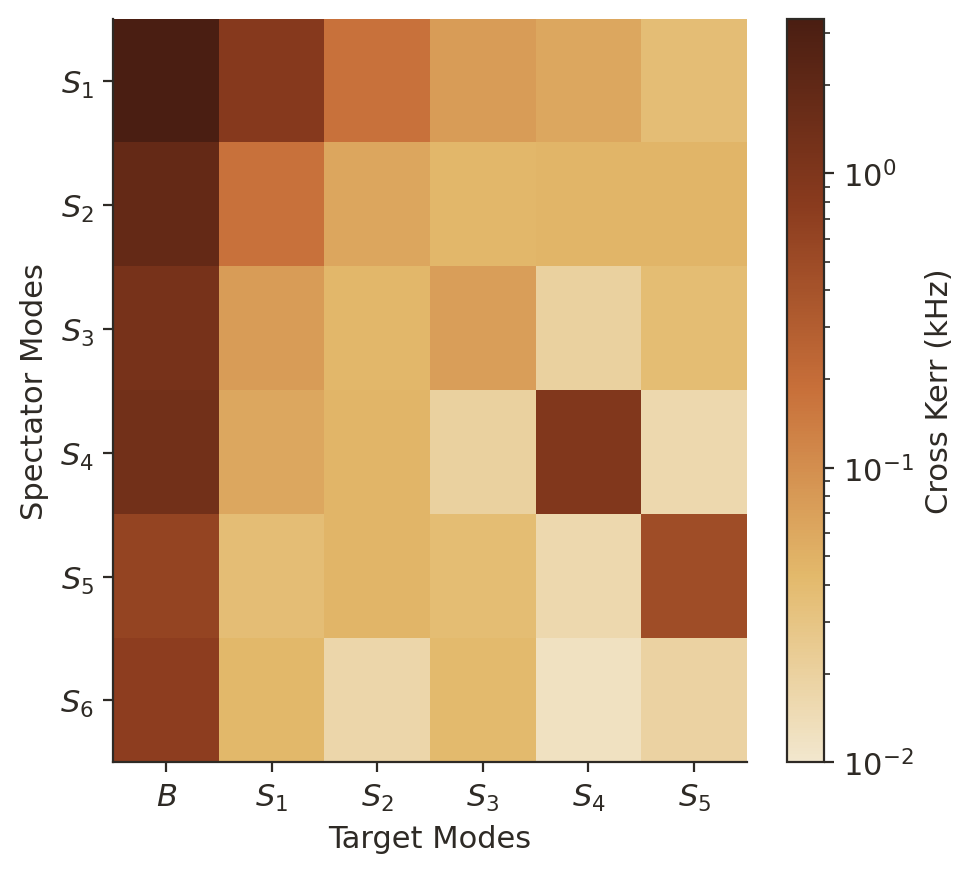
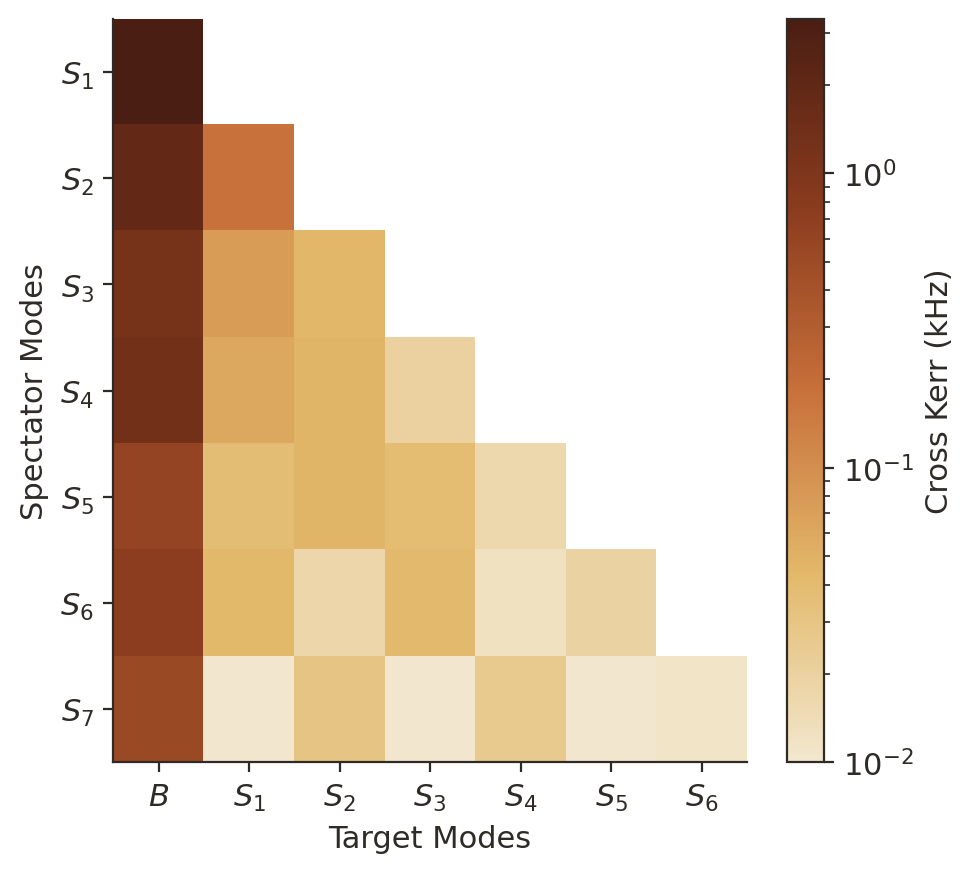
Fix Fig 4a layout: 7x7 lower-triangular staircase (S1-S7 x B,S1-S6), no self-Kerr diagonal
Matches the paper panel; previous version used 6x6 symmetrized block with the
self-Kerr diagonal, which misrepresented the structure.

diff --git a/fig4/plot_fig4a.py b/fig4/plot_fig4a.py
@@ -1,12 +1,11 @@
 """
 Figure 4(a): cross-Kerr matrix between storage and buffer modes (log color scale).
 
-Rows = spectator modes S1..S6, columns = target modes B, S1..S5.
+Rows = spectator modes S1..S7, columns = target modes B, S1..S6.
 Cell value = |cross-Kerr| (kHz):
-  - column B  : |chi(B1, S_i)|  (buffer-storage cross-Kerr)
-  - column S_j: |chi(S_i, S_j)| (storage-storage; diagonal = storage self-Kerr)
-The storage-storage block is symmetric and is symmetrized from the measured
-lower triangle.
+  - column B  : |chi(B1, S_i)|  (buffer-storage cross-Kerr), every row
+  - column S_j: |chi(S_i, S_j)| shown only for j < i  (strict lower triangle;
+    each storage-storage pair once, no self-Kerr diagonal)
 
 Data : fig4a_cross_kerr_matrix_kHz.csv  (full Q,C,B1,B2,S1..S7,R matrix)
 Usage: python plot_fig4a.py
@@ -24,20 +23,19 @@ rs.apply()
 HERE = os.path.dirname(os.path.abspath(__file__))
 M = pd.read_csv(os.path.join(HERE, "fig4a_cross_kerr_matrix_kHz.csv"), index_col=0)
 
-# symmetric storage-storage block S1..S7
-stor = [f"S{i}" for i in range(1, 8)]
-S = M.loc[stor, stor].values
-S = np.where(S == 0, S.T, S)        # symmetrize (fill upper triangle)
-
-targets = ["B", "S1", "S2", "S3", "S4", "S5"]
-spectators = [f"S{i}" for i in range(1, 7)]
+# Lower-triangular staircase: rows = spectator S1..S7, cols = target B, S1..S6.
+# For target storage S_j show |chi(S_i, S_j)| only when j < i (each pair once,
+# no self-Kerr diagonal); plus the buffer column for every row.
+spectators = [f"S{i}" for i in range(1, 8)]        # rows S1..S7
+targets = ["B"] + [f"S{j}" for j in range(1, 7)]   # cols B, S1..S6
 grid = np.full((len(spectators), len(targets)), np.nan)
 for r, sp in enumerate(spectators):
-    i = int(sp[1:]) - 1
-    grid[r, 0] = abs(M.loc[sp, "B1"])                # buffer-storage
-    for c, tg in enumerate(targets[1:], start=1):
-        j = int(tg[1:]) - 1
-        grid[r, c] = abs(S[i, j])
+    i = r + 1
+    grid[r, 0] = abs(M.loc[sp, "B1"])              # buffer-storage cross-Kerr
+    for c in range(1, len(targets)):
+        j = c                                       # target storage index
+        if j < i:                                   # strict lower triangle
+            grid[r, c] = abs(M.loc[sp, f"S{j}"])
 
 fig, ax = plt.subplots(figsize=(5, 4.5))
 im = ax.imshow(np.ma.masked_invalid(grid),

diff --git a/fig4/README.md b/fig4/README.md
@@ -4,8 +4,10 @@
 **Dataset:** `fig4a_cross_kerr_matrix_kHz.csv` — full self/cross-Kerr matrix (kHz)
 over modes Q,C,B1,B2,S1..S7,R (= Supplementary Table 3). Diagonal = self-Kerr,
 lower triangle = measured cross-Kerr.
-**Script:** `plot_fig4a.py` → `fig4a.pdf/.png` (|chi| for the B,S1..S5 × S1..S6
-block, log color scale). `build_fig4a_data.py` regenerates the CSV.
+**Script:** `plot_fig4a.py` → `fig4a.pdf/.png` — lower-triangular staircase,
+rows = spectator S1..S7, cols = target B, S1..S6; B column for every row and
+|chi(S_i,S_j)| for j<i (no self-Kerr diagonal), log color scale.
+`build_fig4a_data.py` regenerates the CSV.
 
 ## Fig 4(c) — state-dependent access error  ✅
 **Dataset:** `fig4c_state_dependent_access_error.csv` — `target_mode,